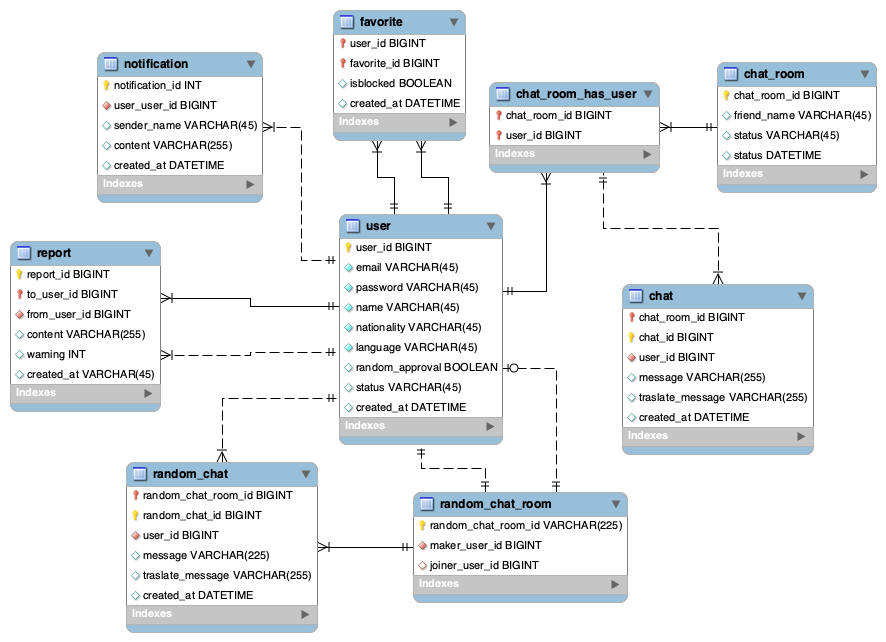
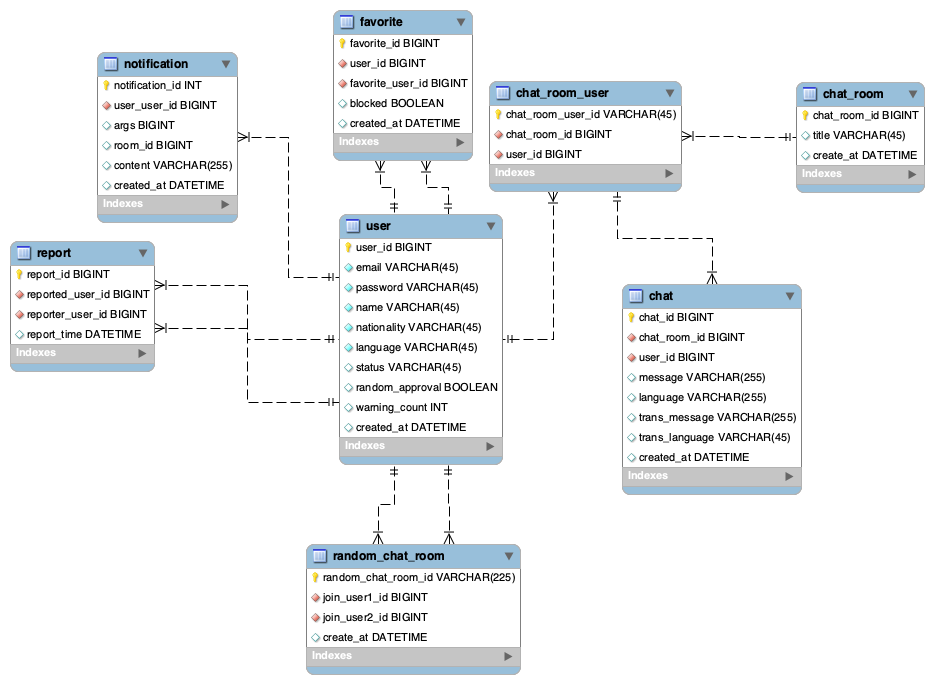
doc : README, ERD, 트러블슈팅 작성

diff --git a/src/test/java/com/example/translationchat/client/service/ReportServiceTest.java b/src/test/java/com/example/translationchat/client/service/ReportServiceTest.java
@@ -17,7 +17,7 @@ import com.example.translationchat.client.domain.model.User;
 import com.example.translationchat.client.domain.repository.ReportRepository;
 import com.example.translationchat.client.domain.repository.UserRepository;
 import com.example.translationchat.common.exception.CustomException;
-import com.example.translationchat.common.redis.util.RedisService;
+import com.example.translationchat.common.redis.RedisService;
 import com.example.translationchat.common.security.principal.PrincipalDetails;
 import java.time.Duration;
 import java.time.Instant;
@@ -60,7 +60,7 @@ public class ReportServiceTest {
             .build();
 
         when(userRepository.findById(5L)).thenReturn(Optional.of(target));
-        when(reportRepository.findTopByReportedUserAndReporterIdOrderByReportTimeDesc(target, 1L))
+        when(reportRepository.findTopByReportedUserAndReporterUserIdOrderByReportTimeDesc(target, 1L))
             .thenReturn(Optional.empty());
         when(redisLockUtil.getLock(anyString(), anyLong())).thenReturn(true);
         //when
@@ -108,12 +108,12 @@ public class ReportServiceTest {
         Instant reportTime = Instant.now().minus(Duration.ofDays(15));
         Report report = Report.builder()
             .reportedUser(target)
-            .reporterId(user.getId())
+            .reporterUserId(user.getId())
             .reportTime(reportTime)
             .build();
 
         when(userRepository.findById(5L)).thenReturn(Optional.of(target));
-        when(reportRepository.findTopByReportedUserAndReporterIdOrderByReportTimeDesc(
+        when(reportRepository.findTopByReportedUserAndReporterUserIdOrderByReportTimeDesc(
             eq(target), eq(1L))).thenReturn(Optional.of(report));
         //when
         CustomException exception = assertThrows(CustomException.class,

diff --git a/src/main/java/com/example/translationchat/common/redis/config/RedisConfig.java b/src/main/java/com/example/translationchat/common/redis/config/RedisConfig.java
@@ -1,13 +1,28 @@
 package com.example.translationchat.common.redis.config;
 
 import com.example.translationchat.client.domain.model.User;
+import org.springframework.beans.factory.annotation.Value;
 import org.springframework.context.annotation.Bean;
 import org.springframework.context.annotation.Configuration;
 import org.springframework.data.redis.connection.RedisConnectionFactory;
+import org.springframework.data.redis.connection.RedisStandaloneConfiguration;
+import org.springframework.data.redis.connection.lettuce.LettuceConnectionFactory;
 import org.springframework.data.redis.core.RedisTemplate;
 
 @Configuration
 public class RedisConfig {
+    @Value("${spring.data.redis.port}")
+    private int port;
+    @Value("${spring.data.redis.host}")
+    private String host;
+
+    @Bean
+    public RedisConnectionFactory redisConnectionFactory() {
+        RedisStandaloneConfiguration config = new RedisStandaloneConfiguration();
+        config.setHostName(host);
+        config.setPort(port);
+        return new LettuceConnectionFactory(config);
+    }
     @Bean
     public RedisTemplate<String, String> redisTemplate(
         RedisConnectionFactory redisConnectionFactory) {

diff --git a/src/main/java/com/example/translationchat/client/service/ReportService.java b/src/main/java/com/example/translationchat/client/service/ReportService.java
@@ -10,7 +10,7 @@ import com.example.translationchat.client.domain.model.User;
 import com.example.translationchat.client.domain.repository.ReportRepository;
 import com.example.translationchat.client.domain.repository.UserRepository;
 import com.example.translationchat.common.exception.CustomException;
-import com.example.translationchat.common.redis.util.RedisService;
+import com.example.translationchat.common.redis.RedisService;
 import com.example.translationchat.common.security.principal.PrincipalDetails;
 import java.time.Duration;
 import java.time.Instant;
@@ -87,7 +87,7 @@ public class ReportService {
             throw new CustomException(ALREADY_RANDOM_CHAT_UNAVAILABLE);
         }
         Optional<Report> optionalReport =
-            reportRepository.findTopByReportedUserAndReporterIdOrderByReportTimeDesc(target, userId);
+            reportRepository.findTopByReportedUserAndReporterUserIdOrderByReportTimeDesc(target, userId);
         if (optionalReport.isPresent()) {
             Instant baseDate = Instant.now().minus(Duration.ofDays(30));
             Instant lastReportDate = optionalReport.get().getReportTime();

diff --git a/src/main/java/com/example/translationchat/client/domain/model/User.java b/src/main/java/com/example/translationchat/client/domain/model/User.java
@@ -6,6 +6,7 @@ import com.example.translationchat.client.domain.type.ActiveStatus;
 import com.example.translationchat.client.domain.type.Language;
 import com.example.translationchat.client.domain.type.Nationality;
 import com.example.translationchat.common.model.BaseEntity;
+import java.io.Serializable;
 import java.util.List;
 import javax.persistence.CascadeType;
 import javax.persistence.Column;
@@ -30,7 +31,7 @@ import org.hibernate.envers.AuditOverride;
 @NoArgsConstructor
 @AllArgsConstructor
 @AuditOverride(forClass = BaseEntity.class)
-public class User extends BaseEntity{
+public class User extends BaseEntity implements Serializable {
     @Id
     @GeneratedValue(strategy = GenerationType.IDENTITY)
     private Long id;

diff --git a/src/test/java/com/example/translationchat/client/service/UserServiceMockTest.java b/src/test/java/com/example/translationchat/client/service/UserServiceMockTest.java
@@ -24,7 +24,7 @@ import com.example.translationchat.client.domain.repository.UserRepository;
 import com.example.translationchat.client.domain.type.Language;
 import com.example.translationchat.client.domain.type.Nationality;
 import com.example.translationchat.common.exception.CustomException;
-import com.example.translationchat.common.redis.util.RedisService;
+import com.example.translationchat.common.redis.RedisService;
 import com.example.translationchat.common.security.JwtAuthenticationProvider;
 import com.example.translationchat.common.security.principal.PrincipalDetails;
 import java.util.Arrays;

diff --git a/src/main/java/com/example/translationchat/client/service/UserService.java b/src/main/java/com/example/translationchat/client/service/UserService.java
@@ -17,7 +17,7 @@ import com.example.translationchat.client.domain.type.ActiveStatus;
 import com.example.translationchat.client.domain.type.Language;
 import com.example.translationchat.client.domain.type.Nationality;
 import com.example.translationchat.common.exception.CustomException;
-import com.example.translationchat.common.redis.util.RedisService;
+import com.example.translationchat.common.redis.RedisService;
 import com.example.translationchat.common.security.JwtAuthenticationProvider;
 import com.example.translationchat.common.security.principal.PrincipalDetails;
 import java.util.List;

diff --git a/src/test/java/com/example/translationchat/client/service/UserServiceTest.java b/src/test/java/com/example/translationchat/client/service/UserServiceTest.java
@@ -12,7 +12,7 @@ import com.example.translationchat.client.domain.repository.UserRepository;
 import com.example.translationchat.client.domain.type.Language;
 import com.example.translationchat.client.domain.type.Nationality;
 import com.example.translationchat.common.exception.CustomException;
-import com.example.translationchat.common.redis.util.RedisService;
+import com.example.translationchat.common.redis.RedisService;
 import com.example.translationchat.common.security.JwtAuthenticationProvider;
 import java.util.List;
 import java.util.concurrent.CountDownLatch;

diff --git a/src/test/java/com/example/translationchat/chat/service/RandomChatServiceTest.java b/src/test/java/com/example/translationchat/chat/service/RandomChatServiceTest.java
@@ -22,7 +22,7 @@ import com.example.translationchat.client.service.NotificationService;
 import com.example.translationchat.client.service.ReportService;
 import com.example.translationchat.common.exception.CustomException;
 import com.example.translationchat.common.papago.PapagoService;
-import com.example.translationchat.common.redis.util.RedisService;
+import com.example.translationchat.common.redis.RedisService;
 import com.example.translationchat.common.security.principal.PrincipalDetails;
 import java.util.Optional;
 import org.junit.jupiter.api.DisplayName;

diff --git a/src/main/java/com/example/translationchat/chat/service/RandomChatService.java b/src/main/java/com/example/translationchat/chat/service/RandomChatService.java
@@ -16,7 +16,7 @@ import com.example.translationchat.client.service.NotificationService;
 import com.example.translationchat.client.service.ReportService;
 import com.example.translationchat.common.exception.CustomException;
 import com.example.translationchat.common.papago.PapagoService;
-import com.example.translationchat.common.redis.util.RedisService;
+import com.example.translationchat.common.redis.RedisService;
 import com.example.translationchat.common.security.principal.PrincipalDetails;
 import java.time.Instant;
 import java.util.ArrayList;

diff --git a/src/main/java/com/example/translationchat/client/domain/repository/ReportRepository.java b/src/main/java/com/example/translationchat/client/domain/repository/ReportRepository.java
@@ -9,7 +9,7 @@ import org.springframework.stereotype.Repository;
 @Repository
 public interface ReportRepository extends JpaRepository<Report, Long> {
 
-    Optional<Report> findTopByReportedUserAndReporterIdOrderByReportTimeDesc(User reportedUser, Long userId);
+    Optional<Report> findTopByReportedUserAndReporterUserIdOrderByReportTimeDesc(User reportedUser, Long reporterUserId);
 
     // 유저의 최근 신고 날짜 가져오기
     Report findTopByReportedUserOrderByReportTimeDesc(User reportedUser);

diff --git a/src/main/java/com/example/translationchat/client/domain/model/Report.java b/src/main/java/com/example/translationchat/client/domain/model/Report.java
@@ -29,14 +29,14 @@ public class Report {
     @JoinColumn(name = "reported_user_id")
     private User reportedUser;
 
-    private Long reporterId;
+    private Long reporterUserId;
 
     private Instant reportTime;
 
     public static Report create(User target, Long reporterId) {
         return Report.builder()
             .reportedUser(target)
-            .reporterId(reporterId)
+            .reporterUserId(reporterId)
             .reportTime(Instant.now())
             .build();
     }

diff --git a/src/main/java/com/example/translationchat/common/redis/RedisService.java b/src/main/java/com/example/translationchat/common/redis/RedisService.java
@@ -1,4 +1,4 @@
-package com.example.translationchat.common.redis.util;
+package com.example.translationchat.common.redis;
 
 import com.example.translationchat.client.domain.model.User;
 import java.util.concurrent.TimeUnit;
